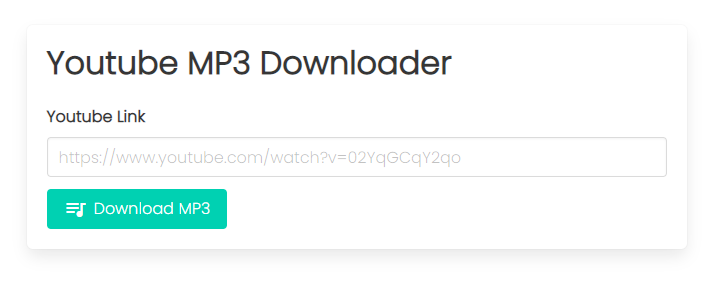
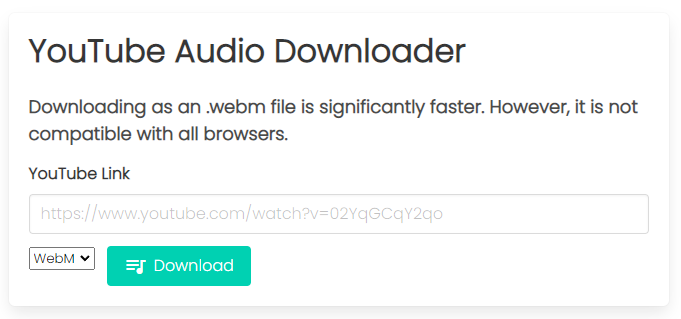
renamed mp3 downloader to audio downloader

diff --git a/pages/dsns.dev/mp3/index.html b/pages/dsns.dev/mp3/index.html
@@ -4,15 +4,15 @@
 <head>
 	<meta charset="UTF-8">
 	<meta name="viewport" content="width=device-width, initial-scale=1.0">
-	<title>YouTube MP3 Downloader</title>
+	<title>YouTube Audio Downloader</title>
 
 	<link rel="stylesheet" href="min.css">
 	<link rel="stylesheet" href="/static/css/static.css">
 
 	<meta property="og:type" content="website">
-	<meta property="og:title" content="YouTube MP3 Downloader" />
-	<meta property="og:description" content="This web app downloads high quality MP3s from YouTube videos." />
-	<meta name="description" content="This web app downloads high quality MP3s from YouTube videos.." />
+	<meta property="og:title" content="YouTube Audio Downloader" />
+	<meta property="og:description" content="This web app downloads high quality audio from YouTube videos." />
+	<meta name="description" content="This web app downloads high quality audio from YouTube videos." />
 	<meta property="og:url" content="https://dsns.dev/mp3/" />
 	<meta property="og:image" content="https://dsns.dev/static/images/png/kirby.png" />
 
@@ -100,7 +100,7 @@
 						</a>
 						<a href="/mp3/" class="navbar-item">
 							<span class="icon-queue_music"></span>
-							YouTube MP3 Downloader
+							YouTube Audio Downloader
 						</a>
 						<a href="/level/" class="navbar-item">
 							<span class="icon-compass"></span>
@@ -122,8 +122,12 @@
 			<div class="column is-half is-offset-one-quarter">
 				<div class="box">
 					<h1 class="title">
-						YouTube MP3 Downloader
+						YouTube Audio Downloader
 					</h1>
+
+					<h2 style="font-size:18px;">
+						Downloading as an .webm file is significantly faster. However, it is not compatible with all browsers.
+					</h2>
 
 					<div class="field">
 						<label class="label">YouTube Link</label>
@@ -138,8 +142,8 @@
 						<div class="control">
 							<div class="select">
 								<select id="fileType">
-									<option value="mp3">MP3</option>
 									<option value="webm">WebM</option>
+									<option value="mp3">MP3</option>
 								</select>
 							</div>
 						</div>
@@ -147,7 +151,7 @@
 						<div class="control">
 							<button class="button is-primary" id="downloadButton" type="submit">
 								<span class="icon-queue_music"></span>
-								Download MP3
+								Download
 							</button>
 						</div>
 					</div>

diff --git a/pages/dsns.dev/projects/index.html b/pages/dsns.dev/projects/index.html
@@ -102,7 +102,7 @@
 						</a>
 						<a href="/mp3/" class="navbar-item">
 							<span class="icon-queue_music"></span>
-							YouTube MP3 Downloader
+							YouTube Audio Downloader
 						</a>
 						<a href="/level/" class="navbar-item">
 							<span class="icon-compass"></span>
@@ -147,12 +147,12 @@
 				<div class="box" style="margin: 30px; padding: 30px;">
 					<div class="columns is-desktop">
 						<div class="column">
-							<img src="/static/images/png/youtube.png" alt="YouTube MP3 Downloader" class="image">
+							<img src="/static/images/png/youtube.png" alt="YouTube Audio Downloader" class="image">
 						</div>
 						<div class="column">
-							<h3 class="title is-2">YouTube MP3 Downloader</h3>
+							<h3 class="title is-2">YouTube Audio Downloader</h3>
 							<h4>
-								This web app downloads high quality MP3s from YouTube videos. <br> <br>
+								This web app downloads high quality audio from YouTube videos. <br> <br>
 								This was created with JavaScript, ytdl-core, ffmpeg, and a custom Express server.
 							</h4>
 						</div>

diff --git a/pages/dsns.dev/mp3/index.js b/pages/dsns.dev/mp3/index.js
@@ -16,10 +16,10 @@ async function downloadMP3() {
 
 		const fileType = document.getElementById("fileType").value;
 		if (fileType == "mp3") { 
-			window.location.href = `/ytmp3/${youtubeID}`;
+			window.open(`/ytmp3/${youtubeID}?fileType=mp3`, "_blank");
 		} 
 		else if (fileType == "webm") {
-			window.location.href = `/ytwebm/${youtubeID}`;
+			window.open(`/ytwebm/${youtubeID}?fileType=webm`, "_blank");
 		}
 	} catch (e) {
 		console.log(e);

diff --git a/pages/dsns.dev/birthdays/index.html b/pages/dsns.dev/birthdays/index.html
@@ -102,7 +102,7 @@
 						</a>
 						<a href="/mp3/" class="navbar-item">
 							<span class="icon-queue_music"></span>
-							YouTube MP3 Downloader
+							YouTube Audio Downloader
 						</a>
 						<a href="/level/" class="navbar-item">
 							<span class="icon-compass"></span>

diff --git a/pages/dsns.dev/christmas/index.html b/pages/dsns.dev/christmas/index.html
@@ -101,7 +101,7 @@
 						</a>
 						<a href="/mp3/" class="navbar-item">
 							<span class="icon-queue_music"></span>
-							YouTube MP3 Downloader
+							YouTube Audio Downloader
 						</a>
 						<a href="/level/" class="navbar-item">
 							<span class="icon-compass"></span>

diff --git a/pages/dsns.dev/difference/error.html b/pages/dsns.dev/difference/error.html
@@ -102,7 +102,7 @@
 						</a>
 						<a href="/mp3/" class="navbar-item">
 							<span class="icon-queue_music"></span>
-							YouTube MP3 Downloader
+							YouTube Audio Downloader
 						</a>
 						<a href="/level/" class="navbar-item">
 							<span class="icon-compass"></span>

diff --git a/pages/dsns.dev/difference/index.html b/pages/dsns.dev/difference/index.html
@@ -113,7 +113,7 @@
 						</a>
 						<a href="/mp3/" class="navbar-item">
 							<span class="icon-queue_music"></span>
-							YouTube MP3 Downloader
+							YouTube Audio Downloader
 						</a>
 						<a href="/level/" class="navbar-item">
 							<span class="icon-compass"></span>

diff --git a/pages/dsns.dev/electric/index.html b/pages/dsns.dev/electric/index.html
@@ -100,7 +100,7 @@
 						</a>
 						<a href="/mp3/" class="navbar-item">
 							<span class="icon-queue_music"></span>
-							YouTube MP3 Downloader
+							YouTube Audio Downloader
 						</a>
 						<a href="/level/" class="navbar-item">
 							<span class="icon-compass"></span>

diff --git a/pages/dsns.dev/index.html b/pages/dsns.dev/index.html
@@ -102,7 +102,7 @@
 						</a>
 						<a href="/mp3/" class="navbar-item">
 							<span class="icon-queue_music"></span>
-							YouTube MP3 Downloader
+							YouTube Audio Downloader
 						</a>
 						<a href="/level/" class="navbar-item">
 							<span class="icon-compass"></span>

diff --git a/pages/dsns.dev/ip/index.html b/pages/dsns.dev/ip/index.html
@@ -100,7 +100,7 @@
 						</a>
 						<a href="/mp3/" class="navbar-item">
 							<span class="icon-queue_music"></span>
-							YouTube MP3 Downloader
+							YouTube Audio Downloader
 						</a>
 						<a href="/level/" class="navbar-item">
 							<span class="icon-compass"></span>

diff --git a/pages/dsns.dev/level/index.html b/pages/dsns.dev/level/index.html
@@ -100,7 +100,7 @@
 						</a>
 						<a href="/mp3/" class="navbar-item">
 							<span class="icon-queue_music"></span>
-							YouTube MP3 Downloader
+							YouTube Audio Downloader
 						</a>
 						<a href="/level/" class="navbar-item">
 							<span class="icon-compass"></span>

diff --git a/pages/dsns.dev/ppi/index.html b/pages/dsns.dev/ppi/index.html
@@ -100,7 +100,7 @@
 						</a>
 						<a href="/mp3/" class="navbar-item">
 							<span class="icon-queue_music"></span>
-							YouTube MP3 Downloader
+							YouTube Audio Downloader
 						</a>
 						<a href="/level/" class="navbar-item">
 							<span class="icon-compass"></span>
